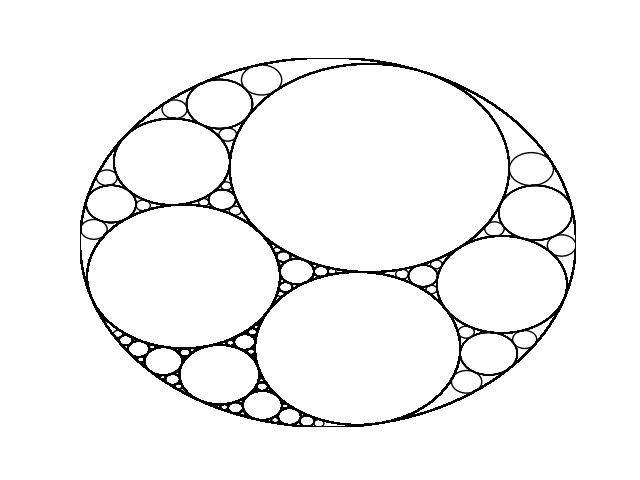
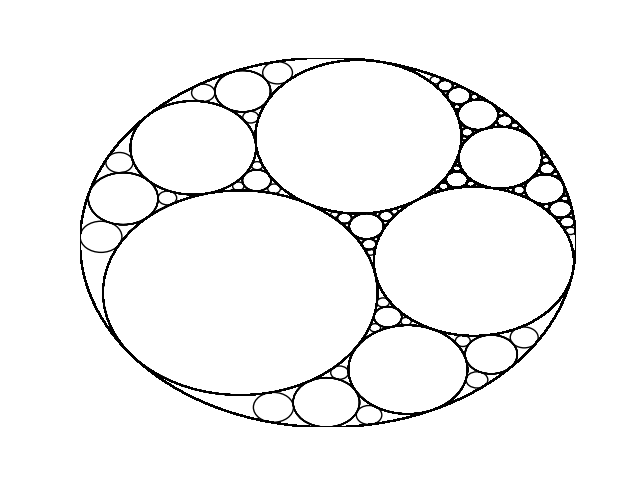
update gasket.png and __main__.py

diff --git a/src/__main__.py b/src/__main__.py
@@ -2,8 +2,9 @@ from itertools import combinations
 from random import uniform
 
 import matplotlib.pyplot as plt
-from mpmath import mp
-TOL = 1e-6
+from numpy import array, abs, sign, sqrt
+from numpy.linalg import norm, det
+TOL = 1e-8
 
 # Symmetric Polynomials
 p1 = lambda a, b, c: a + b + c
@@ -17,13 +18,12 @@ class Circle:
         self.k = k
         self.r = 1/abs(k)
 
-    def draw(self, ax, label=None):
+    def draw(self, ax):
         circle = plt.Circle((self.x, self.y), self.r, fill=False)
-        ax.annotate(label, xy=(self.x, self.y), fontsize=6, ha="center")
         ax.add_patch(circle)
 
     def is_tangent(self, other):
-        return mp.almosteq((self.x - other.x)**2 + (self.y - other.y)**2, (mp.sign(self.k) * self.r + mp.sign(other.k) * other.r)**2, rel_eps=TOL)
+        return abs((self.x - other.x)**2 + (self.y - other.y)**2 - (sign(self.k) * self.r + sign(other.k) * other.r)**2) < TOL
         
 
 class Gasket:
@@ -43,8 +43,8 @@ class Gasket:
         c0 = next(filter(lambda c: c.k < 0, self.circles))
 
         fig, ax = plt.subplots()
-        ax.set_xlim(float(c0.x - c0.r), float(c0.x + c0.r))
-        ax.set_ylim(float(c0.y - c0.r), float(c0.y + c0.r))
+        ax.set_xlim(c0.x - c0.r, c0.x + c0.r)
+        ax.set_ylim(c0.y - c0.r, c0.y + c0.r)
         ax.axis('off')
 
         for circle in self.circles:
@@ -66,10 +66,10 @@ class Gasket:
     def rand_pts():
         colinear = True
         while colinear:
-            A = mp.matrix([uniform(-1, +1), uniform(-1, +1)])
-            B = mp.matrix([uniform(-1, +1), uniform(-1, +1)])
-            C = mp.matrix([uniform(-1, +1), uniform(-1, +1)])
-            colinear = mp.det(mp.matrix([
+            A = array([uniform(-1, +1), uniform(-1, +1)])
+            B = array([uniform(-1, +1), uniform(-1, +1)])
+            C = array([uniform(-1, +1), uniform(-1, +1)])
+            colinear = det(array([
                 [A[0], B[0], C[0]],
                 [A[1], B[1], C[1]],
                 [   1,    1,    1]
@@ -78,9 +78,9 @@ class Gasket:
     
     @staticmethod
     def get_soddy(A, B, C):
-        a = mp.norm(B - C)
-        b = mp.norm(C - A)
-        c = mp.norm(A - B)
+        a = norm(B - C)
+        b = norm(C - A)
+        c = norm(A - B)
 
         p = (a + b + c)/2
 
@@ -92,16 +92,16 @@ class Gasket:
 
     @staticmethod
     def get_circles(c1, c2, c3):
-        rhsPos = lambda a, b, c: p1(a, b, c) + 2 * mp.sqrt(p2(a, b, c))
-        rhsNeg = lambda a, b, c: p1(a, b, c) - 2 * mp.sqrt(p2(a, b, c))
+        rhsPos = lambda a, b, c: p1(a, b, c) + 2 * sqrt(p2(a, b, c))
+        rhsNeg = lambda a, b, c: p1(a, b, c) - 2 * sqrt(p2(a, b, c))
 
         # Descarte (1643)
-        kPos = rhsPos(c1.k, c2.k, c3.k).real
-        kNeg = rhsNeg(c1.k, c2.k, c3.k).real
+        kPos = rhsPos(c1.k, c2.k, c3.k)
+        kNeg = rhsNeg(c1.k, c2.k, c3.k)
 
         # Wilks et al. (2002)
-        zPos = rhsPos(c1.k*mp.mpc(c1.x, c1.y), c2.k*mp.mpc(c2.x, c2.y), c3.k*mp.mpc(c3.x, c3.y))
-        zNeg = rhsNeg(c1.k*mp.mpc(c1.x, c1.y), c2.k*mp.mpc(c2.x, c2.y), c3.k*mp.mpc(c3.x, c3.y))
+        zPos = rhsPos(c1.k*(c1.x + c1.y*1j), c2.k*(c2.x + c2.y*1j), c3.k*(c3.x + c3.y*1j))
+        zNeg = rhsNeg(c1.k*(c1.x + c1.y*1j), c2.k*(c2.x + c2.y*1j), c3.k*(c3.x + c3.y*1j))
 
         new_circles = [
             Circle(zPos.real/kPos, zPos.imag/kPos, kPos),
@@ -117,6 +117,9 @@ class Gasket:
         return new_circles
     
 if __name__ == '__main__':
-    gasket = Gasket(5)
+    depth = 5
+    gasket = Gasket(depth)
+    if len(gasket.circles) < 3**depth + 2:
+        print('Warning: Not enough circles generated. Try decreasing tolerance.')
     fig = gasket.draw()
     fig.savefig('gasket.png')
